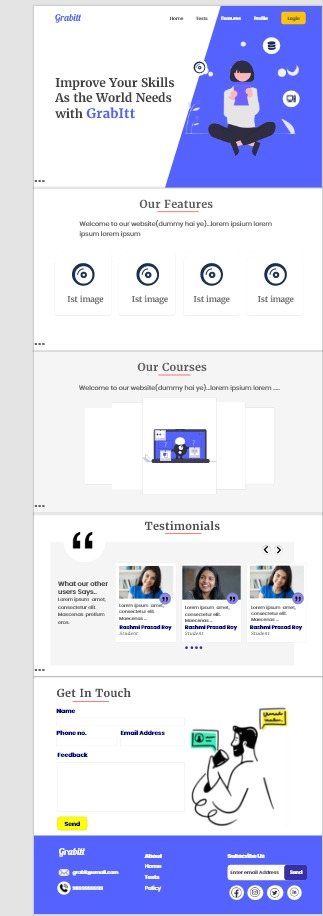
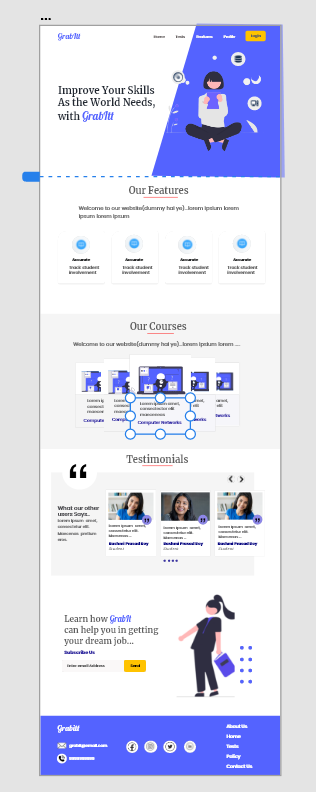
Added home.ejs

diff --git a/assets/css/style.css b/assets/css/style.css
@@ -1,0 +1,34 @@
+@import url('https://fonts.googleapis.com/css2?family=Lobster&family=Merriweather:wght@300;700&family=Poppins:wght@400;600;700&display=swap');
+
+:root
+{
+    --primary: #5463FF;
+    --ash: #F5F5F5;
+    --highlight: #ffc300;
+}
+/* p{
+    color:var(--ash);
+    font-weight: 400;
+    font-family: 'Poppins', sans-serif;
+} */
+h1{
+    font-family: 'Merriweather', serif;
+    font-weight: 700;
+}
+h2{
+    font-family: 'Merriweather', serif;
+    
+}
+/************************** navbar********************* */
+a{
+    font-family: 'Poppins', sans-serif;
+    font-weight: 400;
+}
+.navbar{
+    padding:2% 5%;
+  
+}
+.logo{
+    font-family: 'Lobster', cursive;
+    color:var(--primary);
+}

diff --git a/assets/css/home.css b/assets/css/home.css
@@ -1,0 +1,27 @@
+/********************** navbar *********************/
+.button{
+    border:none;
+    border-radius:0.25rem;
+    color:var(--ash);
+    background-color:var(--highlight) ;
+    padding:10px;
+    text-align:center;
+    text-decoration:none;
+    font-family: 'Poppins', sans-serif;
+    font-size:12px;
+    margin:4px 2px;
+    cursor:pointer;
+    font-weight: bolder;
+}
+span{
+    font-family: 'Lobster', cursive;
+    color:var(--primary);
+}
+/* *******************Hero section *********************/
+/* .hero-image-container
+{
+    background-color: var(--primary);
+    clip-path: polygon(39% 0, 100% 0, 100% 100%, 0% 100%);
+} */
+
+/* ***************Features************* */

diff --git a/index.js b/index.js
@@ -21,6 +21,9 @@ app.set('layout extractScripts', true);
 app.set("view engine", "ejs");
 // app.set("views", "views");
 
+// use assets
+app.use(express.static('./assets'))
+
 // use express router
 app.use('/',require('./routes/index'));
 
